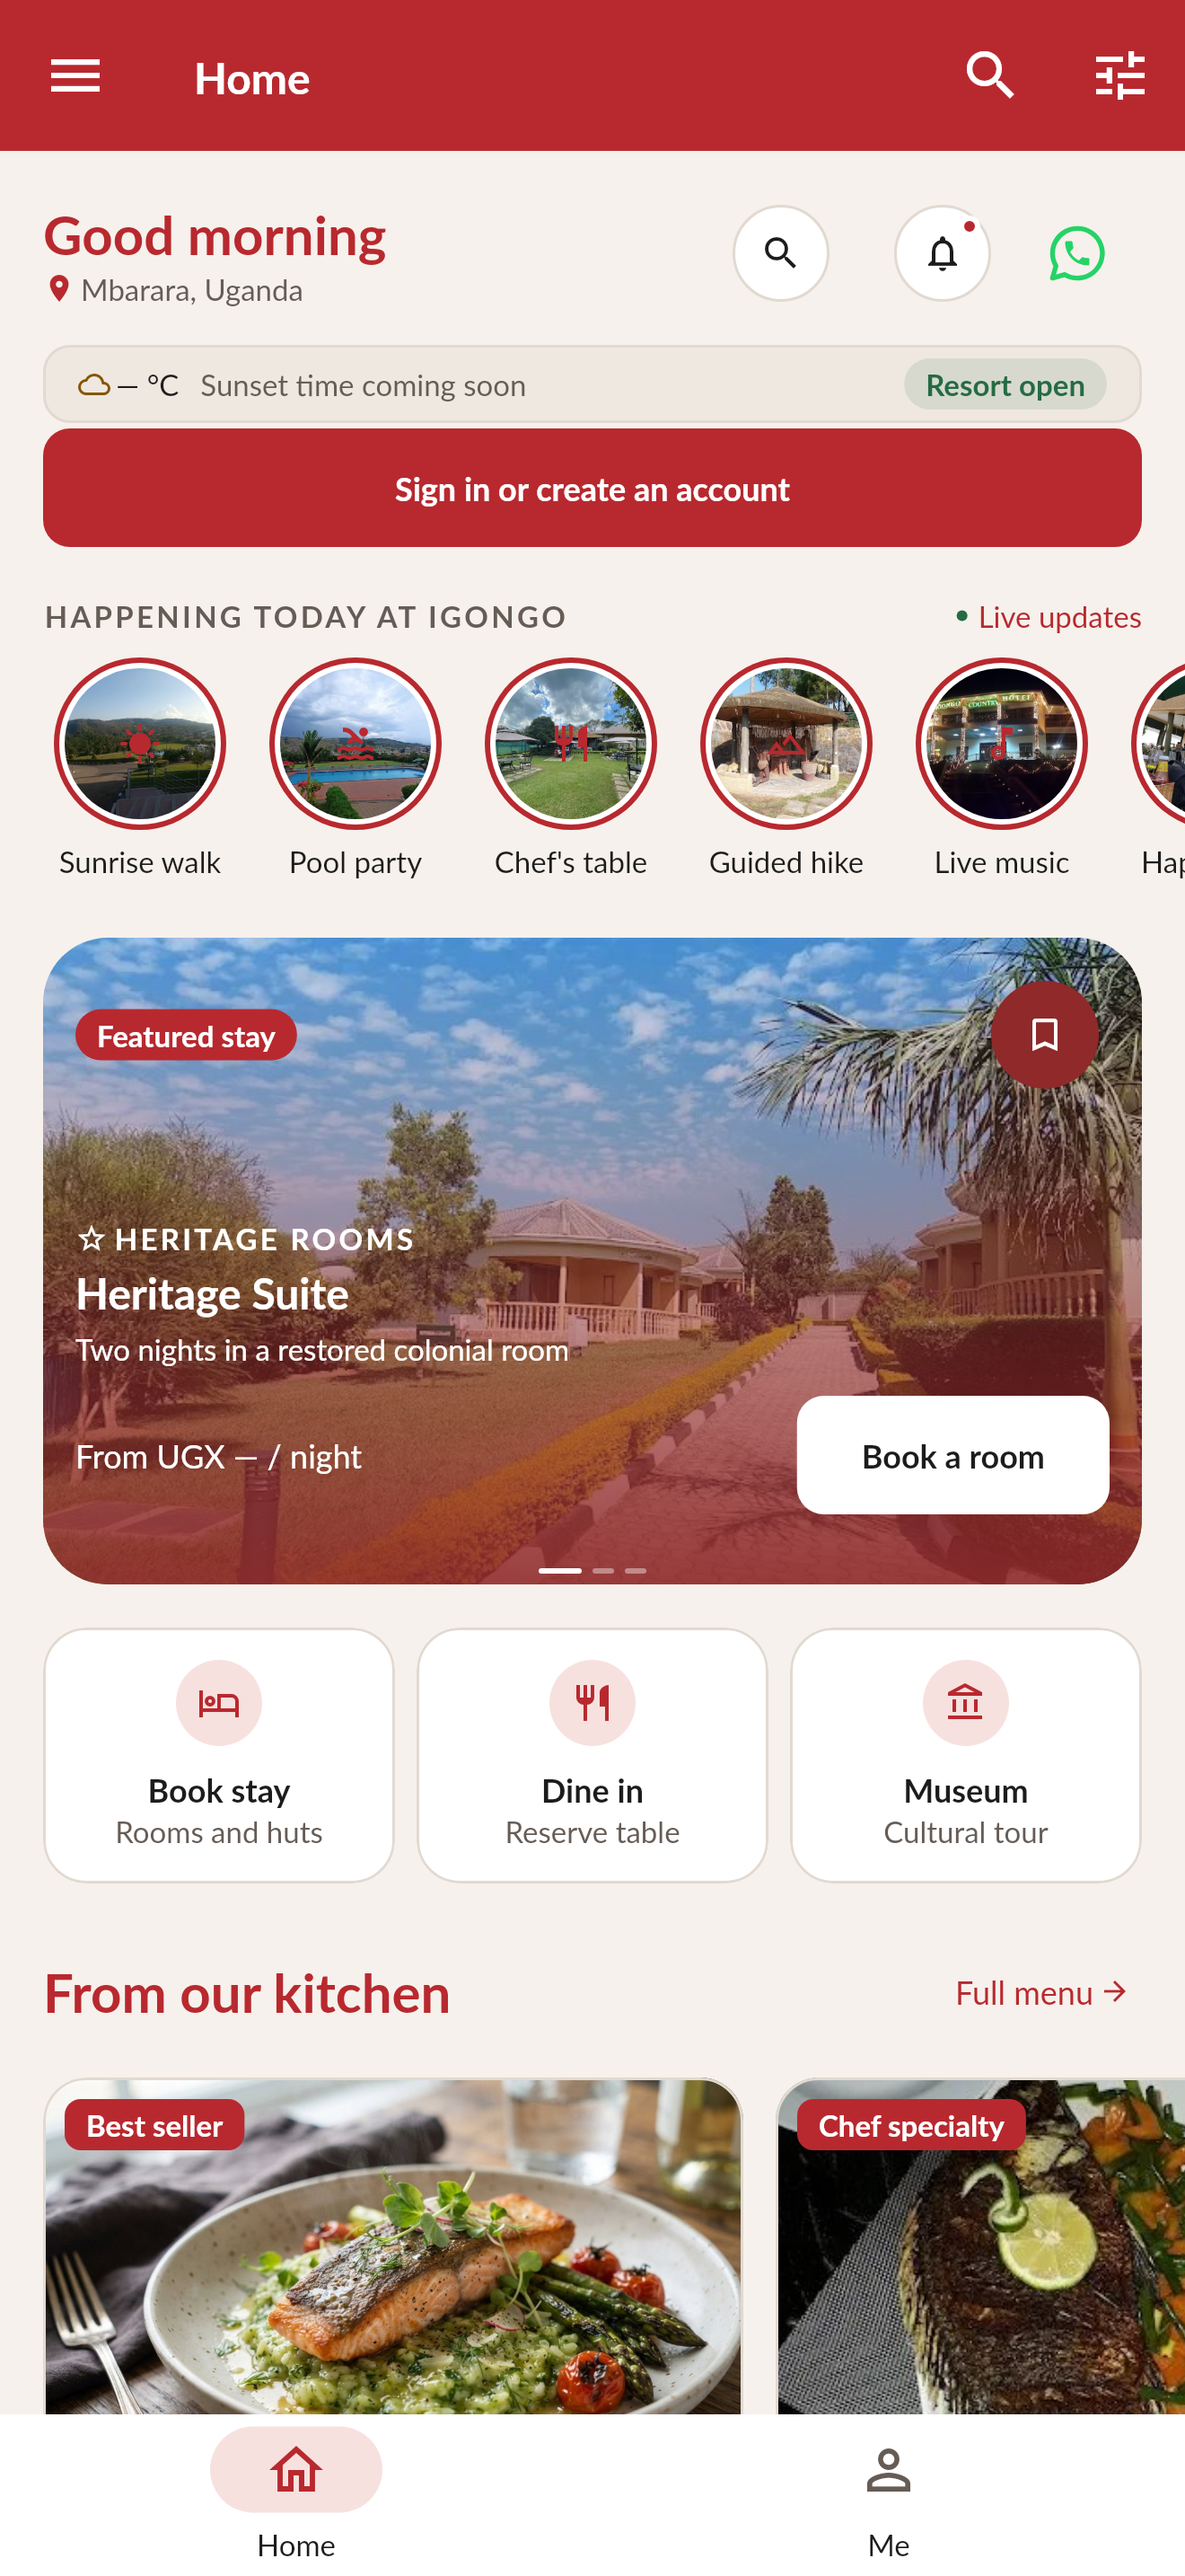
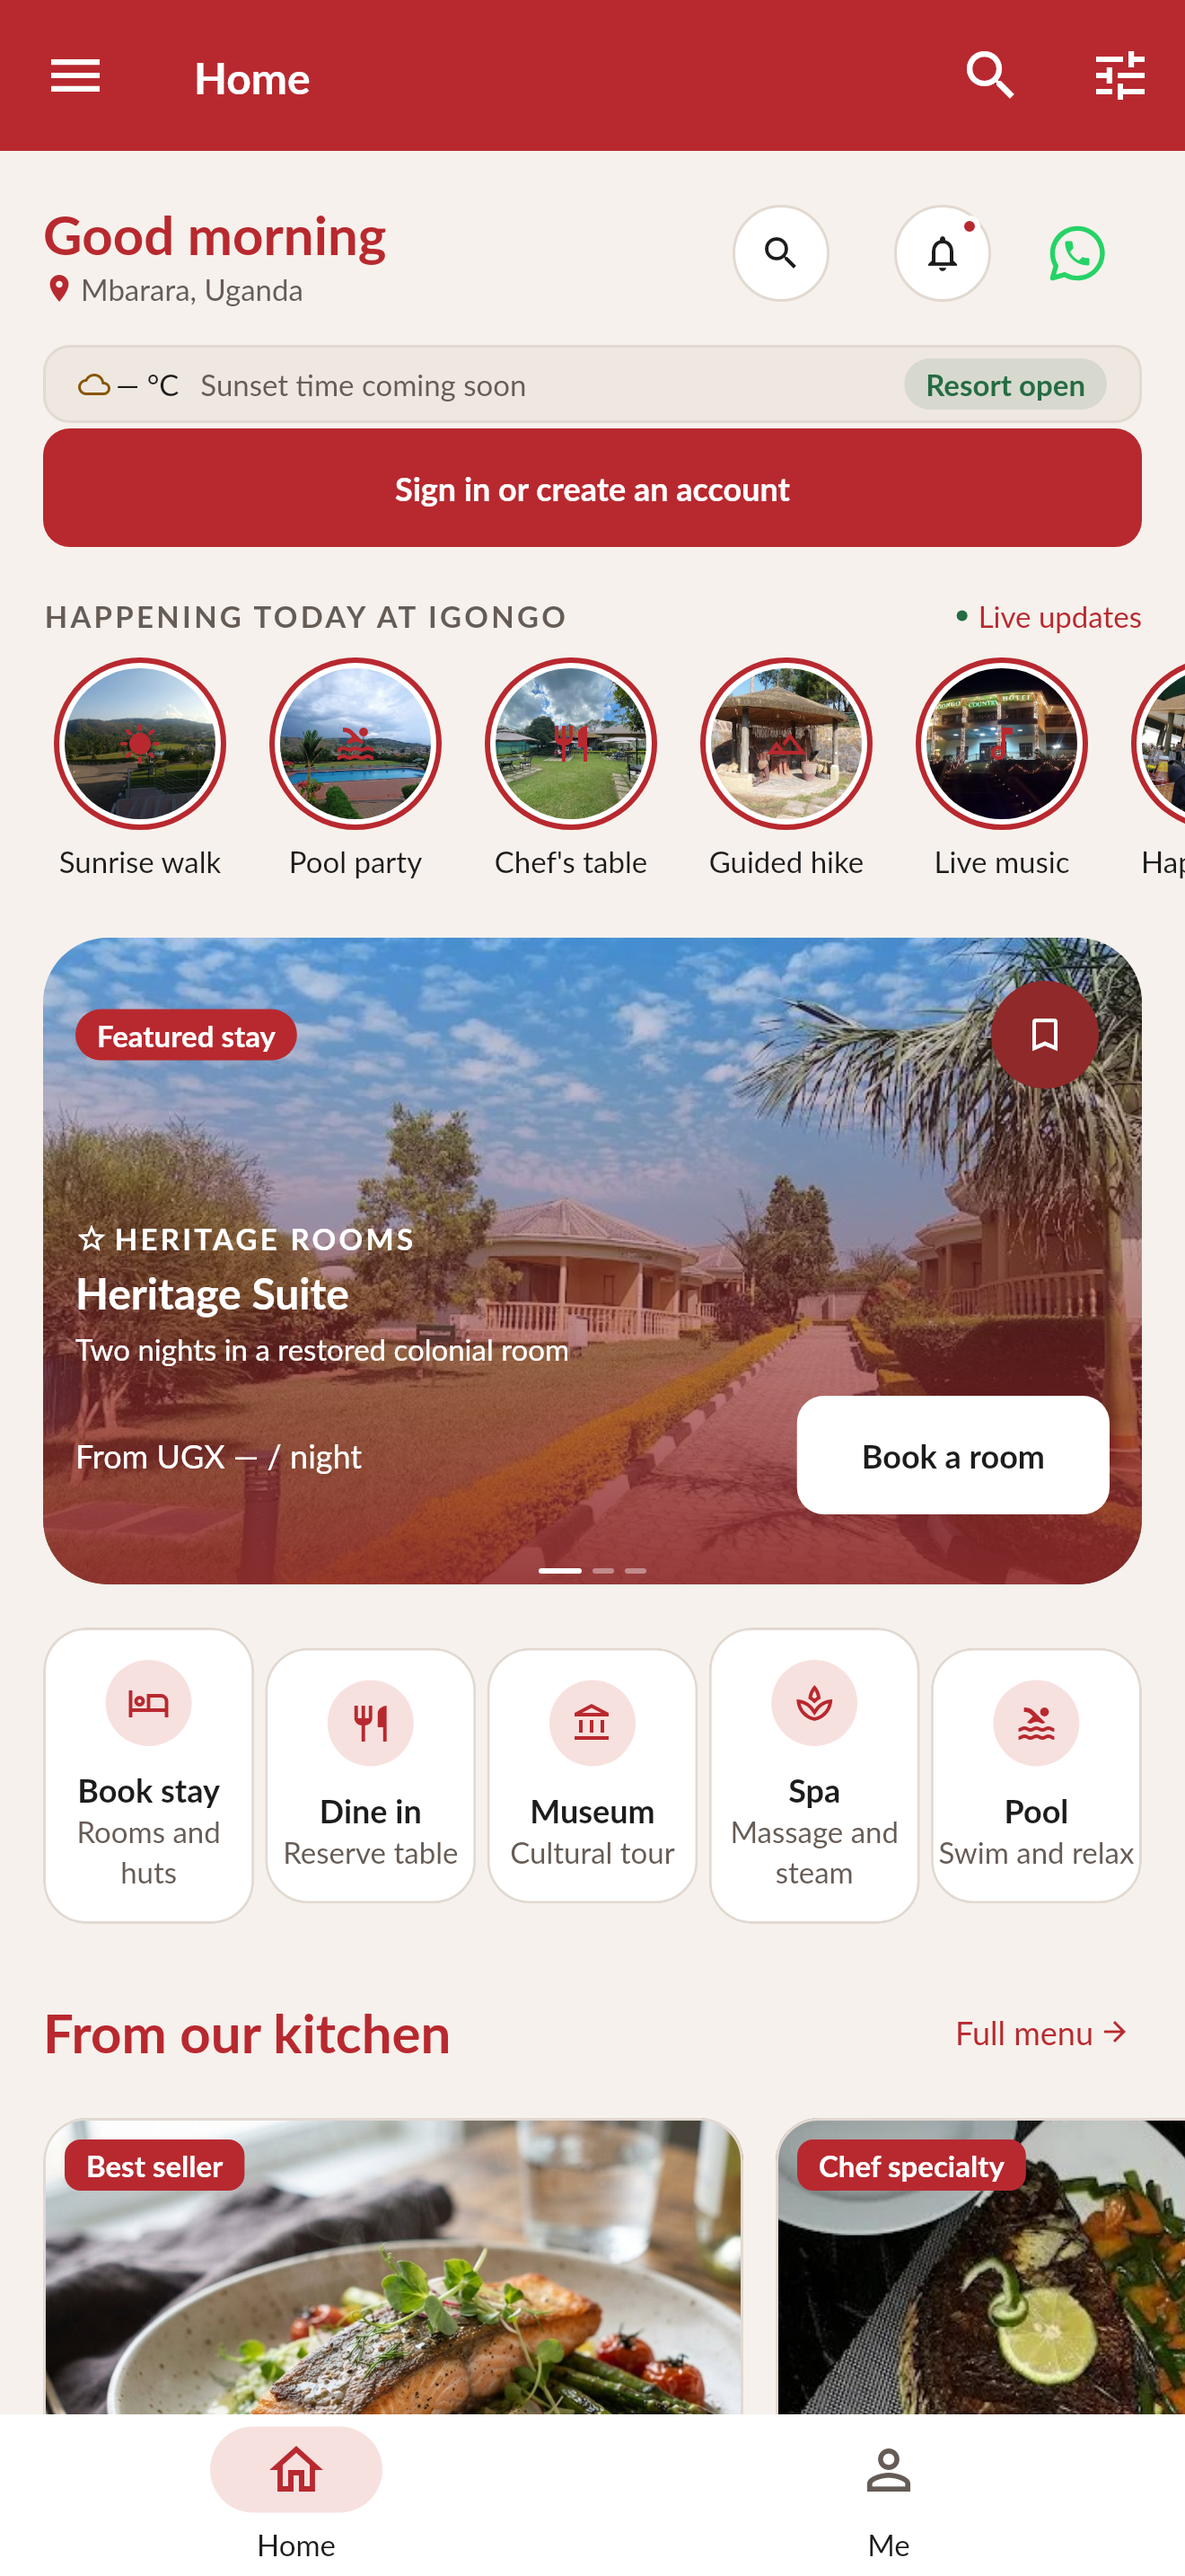
Five quick-access cards and real subtitles on the guest Home (#85)
* Keep the guest Home top row below the status bar

The greeting, points pill and bell sat under the status bar and the
Dynamic Island on the simulator. The top row now sits in a SafeArea, so
it clears the status bar and notch on every phone size. The rest of the
layout is unchanged.

Claude-Session: https://claude.ai/code/session_016ozUvikKBtK7zGMbjUqETV

* Swap the search bar for a search button on the guest Home

The search bar is removed. The points pill is replaced by a round search
button that opens the search page. The Happening Today row now has demo
items and slides sideways. Demo text only; the hotel's events replace it
later.

Claude-Session: https://claude.ai/code/session_016ozUvikKBtK7zGMbjUqETV

* Regenerate app screenshots on Linux (Flutter 3.50.1)

* Demo photos, a sliding hero and dish row on the guest Home

- The hero is a carousel of three demo stays that moves every 2 seconds,
  wraps around and can be swiped. Its dots follow the slide on screen.
- The Happening Today bubbles and the dish cards show demo photos.
- Every dish card has the same height. The picture is taller and the
  text area has less empty space. The dish row slides every 2 seconds.

Demo text and photos only; the hotel's real stays and menu replace them.

Claude-Session: https://claude.ai/code/session_016ozUvikKBtK7zGMbjUqETV

* Regenerate app screenshots on Linux (Flutter 3.50.1)

* Regenerate app screenshots on Linux (Flutter 3.50.1)
[…]

diff --git a/apps/igongo/lib/modules/m00_app_shell/presentation/role_home/guest/guest_quick_actions.dart b/apps/igongo/lib/modules/m00_app_shell/presentation/role_home/guest/guest_quick_actions.dart
@@ -1,12 +1,13 @@
-// The three quick actions under the hero card: Book stay, Dine in and Museum,
-// each in an equal column. [onOpen] opens the screen for the chosen area.
+// The five quick actions under the hero card: Book stay, Dine in, Museum, Spa and Pool,
+// all in one row of equal columns. [onOpen] opens the screen for the chosen area.
 
 import 'package:igongo_tokens/igongo_tokens.dart';
 import 'package:material_ui/material_ui.dart';
 
 import 'guest_quick_action.dart';
+import 'guest_service_placeholder_page.dart';
 
-/// The row of three quick-action cards.
+/// The row of five quick-action cards.
 class GuestQuickActions extends StatelessWidget {
   /// Creates the row; [onOpen] receives the screen ID to open.
   const GuestQuickActions({super.key, required this.onOpen});
@@ -23,13 +24,18 @@ class GuestQuickActions extends StatelessWidget {
   /// The museum's home.
   static const _museum = 'S68-01';
 
+  /// Opens the placeholder page for a service that has no screen yet.
+  static void _openPlaceholder(BuildContext context, String title) {
+    Navigator.of(context).push(MaterialPageRoute<void>(builder: (_) => GuestServicePlaceholderPage(title: title)));
+  }
+
   @override
   Widget build(BuildContext context) => Padding(
     padding: const EdgeInsets.symmetric(horizontal: IgongoSpace.lg),
-    // Step 1: three equal columns with a small gap between them.
+    // Step 1: five equal columns with a small gap between them.
     child: IntrinsicHeight(
       child: Row(
-        spacing: IgongoSpace.sm,
+        spacing: IgongoSpace.xs,
         children: [
           Expanded(
             child: GuestQuickAction(
@@ -53,6 +59,22 @@ class GuestQuickActions extends StatelessWidget {
               title: 'Museum',
               subtitle: 'Cultural tour',
               onTap: () => onOpen(_museum),
+            ),
+          ),
+          Expanded(
+            child: GuestQuickAction(
+              icon: Icons.spa_outlined,
+              title: 'Spa',
+              subtitle: 'Massage and steam',
+              onTap: () => _openPlaceholder(context, 'Spa'),
+            ),
+          ),
+          Expanded(
+            child: GuestQuickAction(
+              icon: Icons.pool_outlined,
+              title: 'Pool',
+              subtitle: 'Swim and relax',
+              onTap: () => _openPlaceholder(context, 'Pool'),
             ),
           ),
         ],

diff --git a/apps/igongo/lib/modules/m00_app_shell/presentation/role_home/guest/guest_service_placeholder_page.dart b/apps/igongo/lib/modules/m00_app_shell/presentation/role_home/guest/guest_service_placeholder_page.dart
@@ -1,0 +1,49 @@
+// The placeholder page for a guest service that has no screen yet (Spa, Pool). It
+// shows the service's name and a short "coming soon" line in the theme's text styles,
+// until the real screen is built.
+
+import 'package:igongo_tokens/igongo_tokens.dart';
+import 'package:material_ui/material_ui.dart';
+
+import '../../../../../shared/theme/theme.dart';
+
+/// A plain page with the service name and a note that it is coming soon.
+class GuestServicePlaceholderPage extends StatelessWidget {
+  /// Creates the page for the service called [title].
+  const GuestServicePlaceholderPage({super.key, required this.title});
+
+  /// The service's name, shown in the app bar and as the heading.
+  final String title;
+
+  @override
+  Widget build(BuildContext context) {
+    final p = context.palette;
+    return Scaffold(
+      appBar: AppBar(title: Text(title)),
+      body: Center(
+        // Step 1: a centred column with an icon, the service name and the note.
+        child: Padding(
+          padding: const EdgeInsets.all(IgongoSpace.lg),
+          child: Column(
+            mainAxisSize: MainAxisSize.min,
+            children: [
+              Icon(Icons.hourglass_empty, size: IgongoSpace.xl, color: p.primary),
+              const SizedBox(height: IgongoSpace.md),
+              Text(
+                title,
+                textAlign: TextAlign.center,
+                style: context.text.titleLarge?.copyWith(color: p.text, fontWeight: FontWeight.w700),
+              ),
+              const SizedBox(height: IgongoSpace.xs),
+              Text(
+                'This service is coming soon.',
+                textAlign: TextAlign.center,
+                style: context.text.bodyMedium?.copyWith(color: p.textMuted),
+              ),
+            ],
+          ),
+        ),
+      ),
+    );
+  }
+}

diff --git a/apps/igongo/lib/modules/m00_app_shell/presentation/role_home/guest/guest_quick_action.dart b/apps/igongo/lib/modules/m00_app_shell/presentation/role_home/guest/guest_quick_action.dart
@@ -42,7 +42,7 @@ class GuestQuickAction extends StatelessWidget {
       child: InkWell(
         onTap: onTap,
         child: Padding(
-          padding: const EdgeInsets.symmetric(horizontal: IgongoSpace.sm, vertical: IgongoSpace.md),
+          padding: const EdgeInsets.symmetric(horizontal: IgongoSpace.xxs, vertical: IgongoSpace.md),
           // Step 1: the disc, then the title and subtitle, all centred in the card.
           child: Column(
             mainAxisSize: MainAxisSize.min,
@@ -57,14 +57,14 @@ class GuestQuickAction extends StatelessWidget {
               const SizedBox(height: IgongoSpace.sm),
               Text(
                 title,
-                maxLines: 1,
+                maxLines: 2,
                 overflow: TextOverflow.ellipsis,
                 textAlign: TextAlign.center,
                 style: context.text.labelLarge?.copyWith(color: p.text, fontWeight: FontWeight.w700),
               ),
               Text(
                 subtitle,
-                maxLines: 1,
+                maxLines: 2,
                 overflow: TextOverflow.ellipsis,
                 textAlign: TextAlign.center,
                 style: context.text.labelSmall?.copyWith(color: p.textMuted),

diff --git a/apps/igongo/test/modules/m62_food_ordering/guest_order_flow_test.dart b/apps/igongo/test/modules/m62_food_ordering/guest_order_flow_test.dart
@@ -161,14 +161,14 @@ void main() {
     await _settle(tester);
     expect(find.text('Your cart is empty'), findsOneWidget);
     expect(find.byType(BackButton), findsNothing);
-    // A pushed page (Spa, opened from a home tile) keeps its Back arrow.
+    // A pushed page (Spa, opened from the Explore tile below the quick actions) keeps its Back arrow.
     await tester.tap(find.text('Home').last);
     await _settle(tester);
-    await tester.scrollUntilVisible(find.text('Spa'), 200, scrollable: find.byType(Scrollable).first);
+    await tester.scrollUntilVisible(find.text('Spa').last, 200, scrollable: find.byType(Scrollable).first);
     // Lift it clear of the bottom bar before tapping.
     await tester.drag(find.byType(Scrollable).first, const Offset(0, -150));
     await _settle(tester);
-    await tester.tap(find.text('Spa'));
+    await tester.tap(find.text('Spa').last);
     await _settle(tester);
     expect(find.byType(BackButton), findsOneWidget);
   });

diff --git a/apps/igongo/lib/modules/m00_app_shell/presentation/role_home/guest/guest_dish_card.dart b/apps/igongo/lib/modules/m00_app_shell/presentation/role_home/guest/guest_dish_card.dart
@@ -52,10 +52,10 @@ class GuestDishCard extends StatelessWidget {
   static const width = 260.0;
 
   /// Every card has this height, so the row's cards line up.
-  static const _cardHeight = 296.0;
+  static const _cardHeight = 306.0;
 
   /// The picture's height, in logical pixels.
-  static const _pictureHeight = 160.0;
+  static const _pictureHeight = 200.0;
 
   @override
   Widget build(BuildContext context) {
@@ -118,7 +118,7 @@ class GuestDishCard extends StatelessWidget {
                       if (description.isNotEmpty)
                         Text(
                           description,
-                          maxLines: 2,
+                          maxLines: 1,
                           overflow: TextOverflow.ellipsis,
                           style: context.text.bodySmall?.copyWith(color: p.textMuted),
                         ),

diff --git a/apps/igongo/lib/modules/m00_app_shell/presentation/role_home/guest_home_tiles.dart b/apps/igongo/lib/modules/m00_app_shell/presentation/role_home/guest_home_tiles.dart
@@ -13,3 +13,19 @@ const Set<String> hiddenGuestTileIds = {
 
 /// [label] without bracketed text: "Order food (delivery...)" becomes "Order food".
 String shortTileLabel(String label) => label.replaceAll(RegExp(r'\s*\([^)]*\)'), '').trim();
+
+/// The short line under each Explore Igongo tile, by screen ID. A tile not listed here
+/// shows [guestTileSubtitleFallback].
+const Map<String, String> guestTileSubtitles = {
+  'S67-01': 'Rooms and huts',
+  'S62-01': 'Dine in or order',
+  'S64-04': 'Reserve a table',
+  'S68-01': 'Cultural tours',
+  'S69-01': 'Events on the grounds',
+  'S71-01': 'Pool passes',
+  'S72-01': 'Massage and steam',
+  'S73-01': 'Souvenirs and goods',
+};
+
+/// The line shown under a tile whose ID has no subtitle above.
+const String guestTileSubtitleFallback = 'Hotel area';

diff --git a/apps/igongo/lib/modules/m00_app_shell/presentation/role_home/role_home_screen.dart b/apps/igongo/lib/modules/m00_app_shell/presentation/role_home/role_home_screen.dart
@@ -103,8 +103,8 @@ class RoleHomeScreen extends ConsumerWidget {
                   if (!hiddenGuestTileIds.contains(tile.screenId))
                     AreaCard(
                       label: shortTileLabel(tile.label),
-                      // The subtitle is a placeholder until the layout carries one.
-                      subtitle: 'Coming soon',
+                      // The subtitle comes from the guest tile list, with a fallback for new tiles.
+                      subtitle: guestTileSubtitles[tile.screenId] ?? guestTileSubtitleFallback,
                       icon: ModuleIcons.of(tile.screenId.substring(1, 3)),
                       onTap: () => screen.open(tile.screenId),
                     ),

diff --git a/apps/igongo/lib/modules/m00_app_shell/presentation/role_home/guest/guest_dish_row.dart b/apps/igongo/lib/modules/m00_app_shell/presentation/role_home/guest/guest_dish_row.dart
@@ -44,7 +44,7 @@ class _GuestDishRowState extends ConsumerState<GuestDishRow> {
   static const _placeholderPrepTime = '— mins';
 
   /// The row's height: the card plus room for its shadow.
-  static const _rowHeight = 300.0;
+  static const _rowHeight = 326.0;
 
   /// The gap between two cards.
   static const _gap = IgongoSpace.md;
